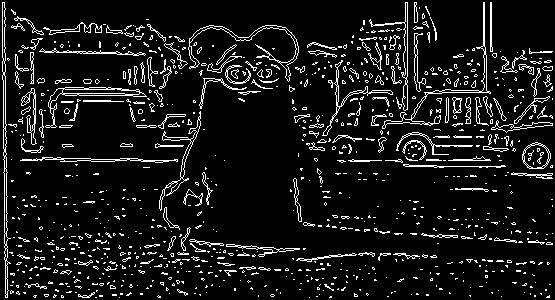
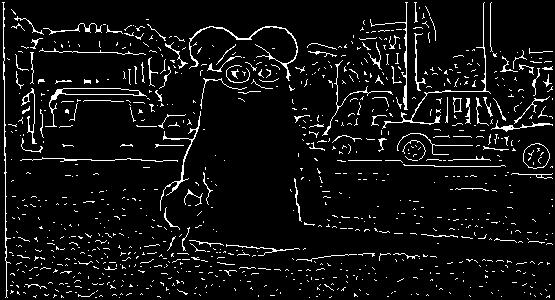
small bug

diff --git a/h3/MyEdge.m b/h3/MyEdge.m
@@ -49,7 +49,7 @@ elseif(strcmp(method,'marr'))
     end
     t1=0.1;
     bw=im2bw(Gradient,t1);
-    bw=bwmorph(bw,'remove');
+    bw=bwmorph(bw,'skel');
 elseif(strcmp(method,'canny'))
     bw=cannyEdge(I);
 else
